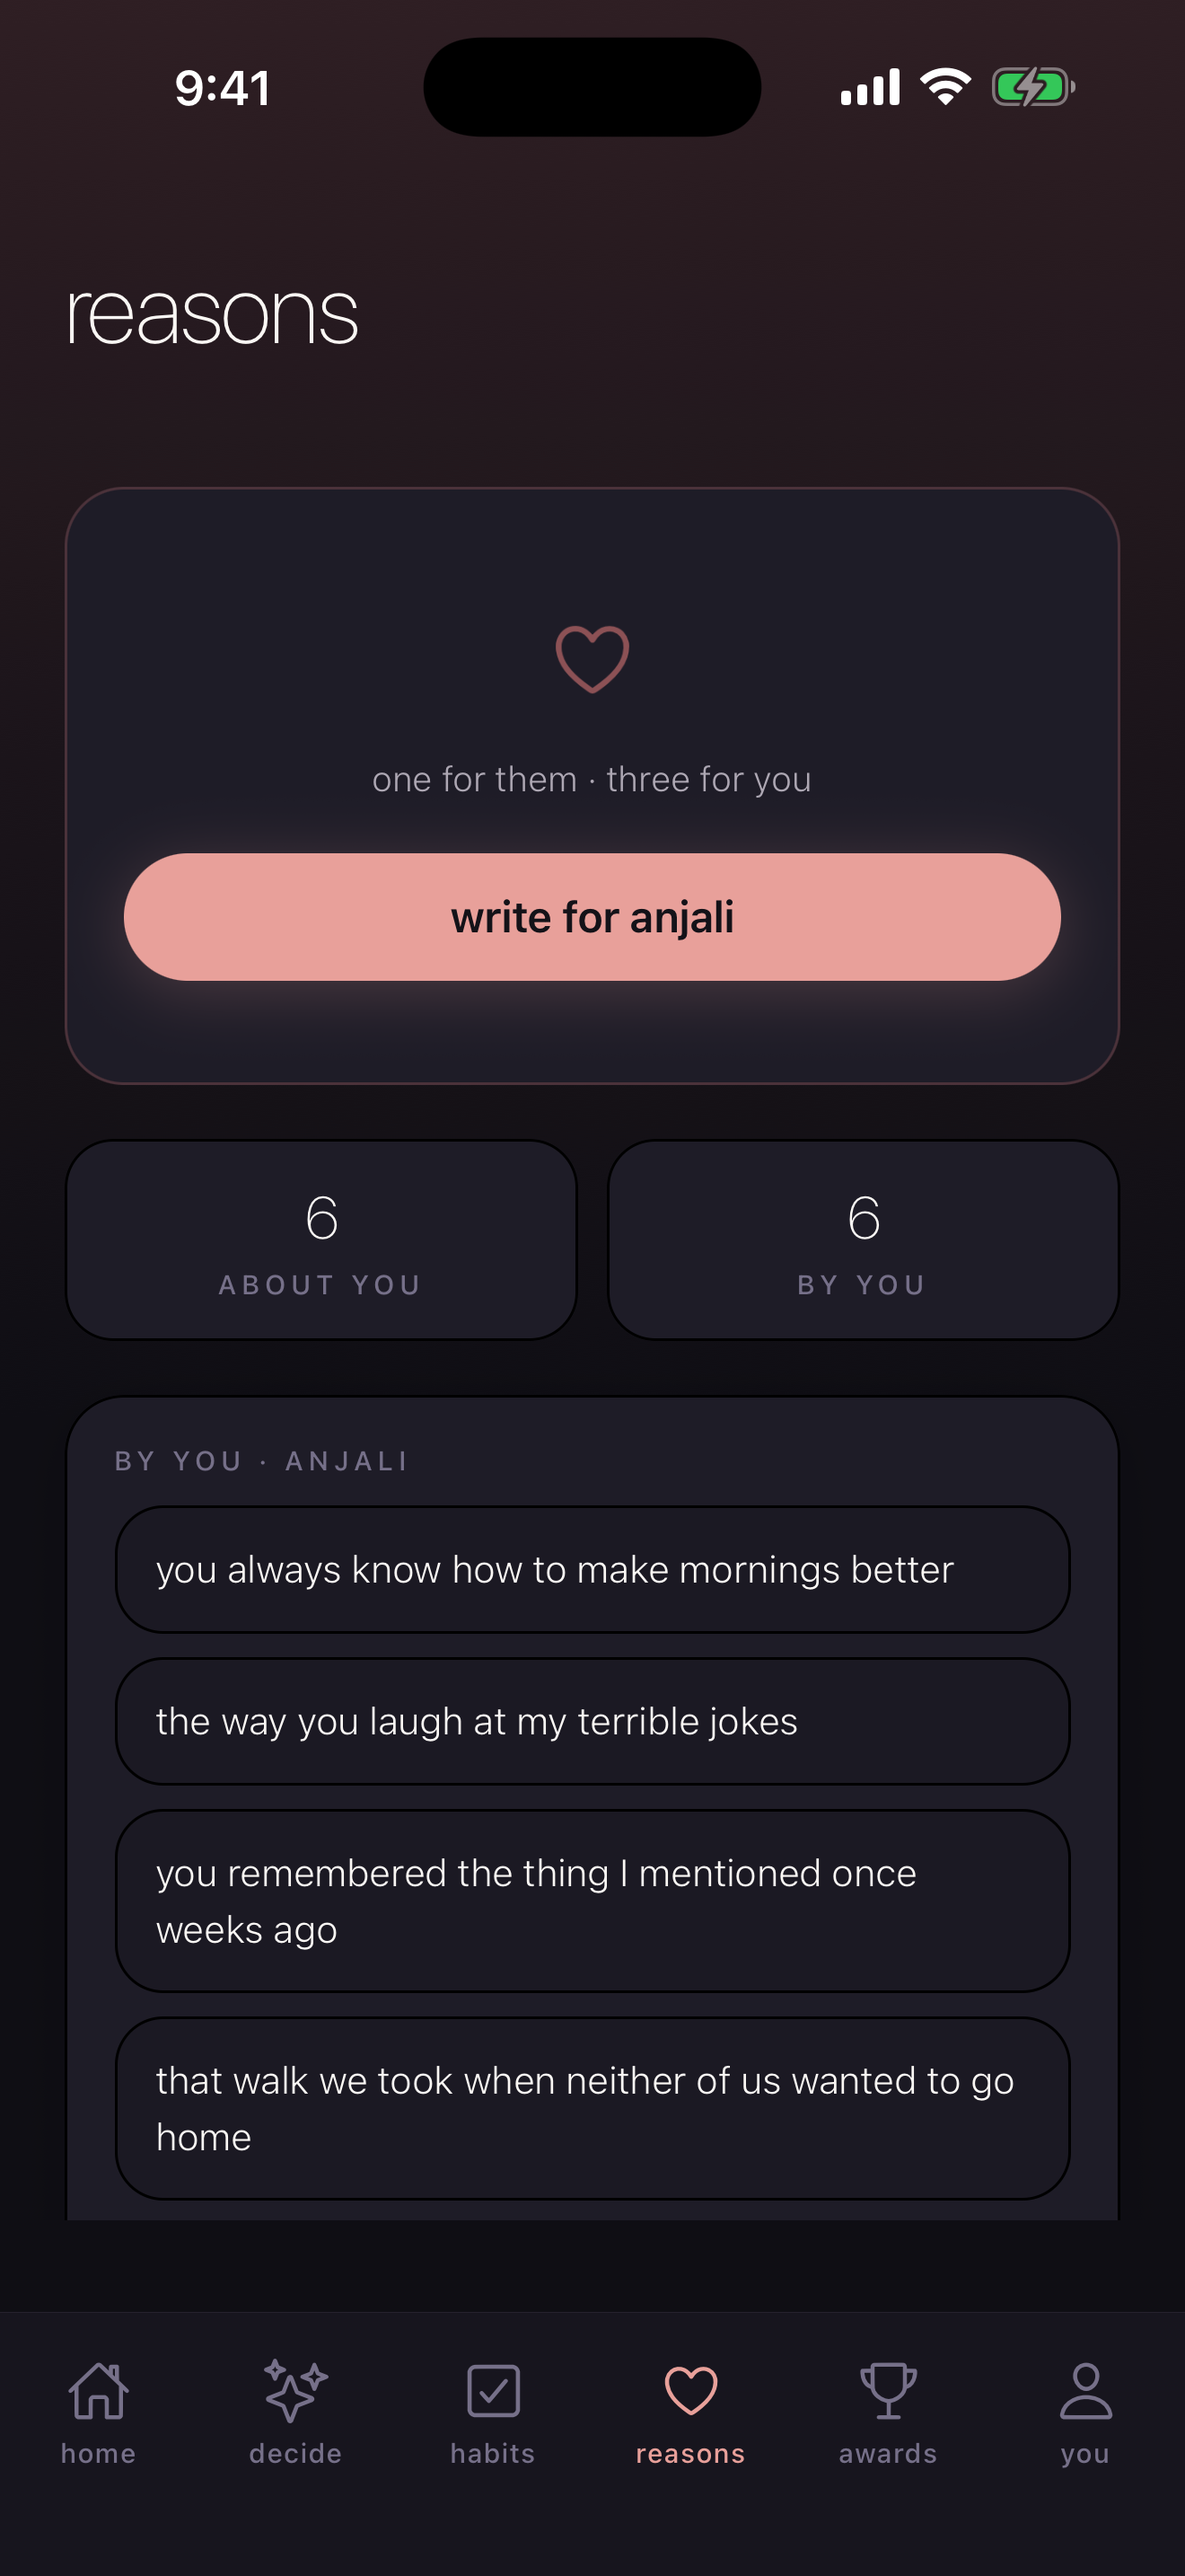
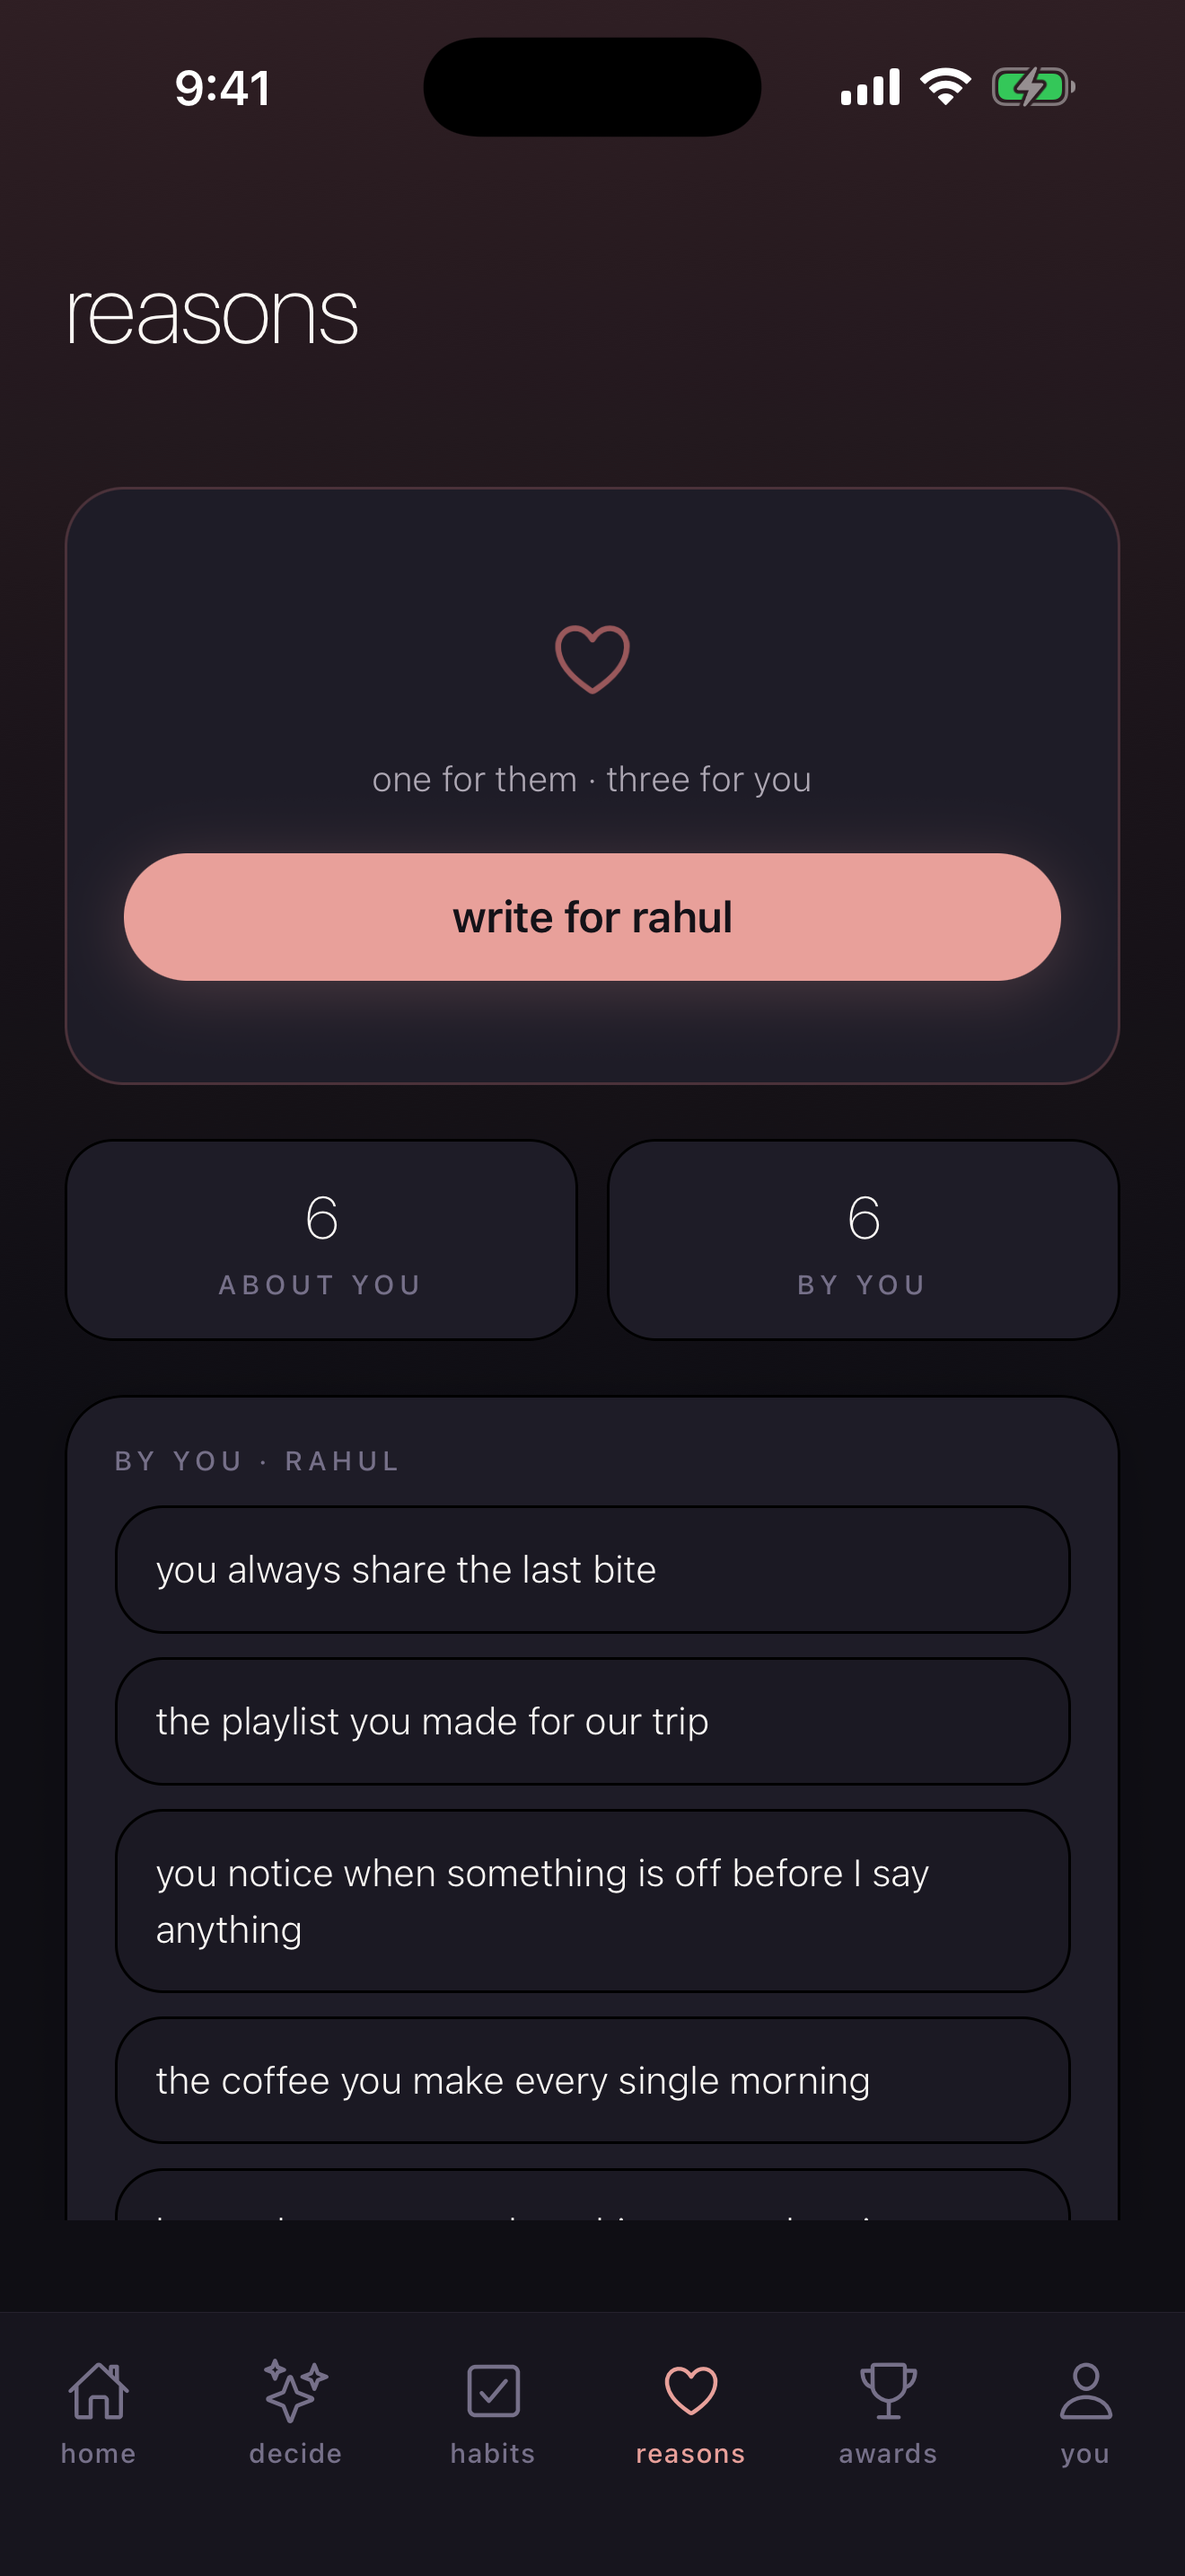
docs(store): Anjali screenshots + feminine UX polish
- Switch all screenshots to Anjali's account (woman's perspective,
  rahul shown online)
- Add Cormorant Garamond serif for headings — editorial feminine feel
- Reorder feature rail: reasons → mood → awards → habits → decide → you
  (emotional features lead)
- Warmer copy: "where the little things become everything",
  "say why you love them", "how are you, really?"
- Regenerate OG cover with Anjali's home screen
- Update demo account names in seed script (rahul/anjali)

diff --git a/docs/store/index.html b/docs/store/index.html
@@ -37,6 +37,9 @@
 
     <link rel="canonical" href="https://4m4n5.github.io/humm/store/" />
     <link rel="preload" as="image" href="images/marketing/01-home.png" fetchpriority="high" />
+    <link rel="preconnect" href="https://fonts.googleapis.com" />
+    <link rel="preconnect" href="https://fonts.gstatic.com" crossorigin />
+    <link href="https://fonts.googleapis.com/css2?family=Cormorant+Garamond:ital,wght@0,300;0,400;1,300&display=swap" rel="stylesheet" />
     <link rel="stylesheet" href="style.css" />
   </head>
 
@@ -63,7 +66,7 @@
           your relationship&rsquo;s<br />
           <span class="hero-accent">private corner</span>
         </h1>
-        <p class="hero-sub">a calm, intimate space for two.</p>
+        <p class="hero-sub">where the little things become everything.</p>
 
         <div class="hero-stage">
           <div class="phone phone--hero">
@@ -93,11 +96,28 @@
         <h2>small things, every day</h2>
 
         <div class="feature-rail" role="list">
+          <article class="feature feature--reasons" role="listitem">
+            <div class="phone">
+              <img
+                src="images/marketing/05-reasons.png"
+                alt="reasons — write one for them, reveal three from them"
+                width="1206"
+                height="2622"
+                loading="lazy"
+                decoding="async"
+              />
+            </div>
+            <div class="feature-meta">
+              <span class="feature-tag">reasons</span>
+              <h3>say why you love them.</h3>
+            </div>
+          </article>
+
           <article class="feature feature--mood" role="listitem">
             <div class="phone">
               <img
                 src="images/marketing/02-mood.png"
-                alt="mood — partner sync, seven-day strip, in-sync moments"
+                alt="mood — check in together, see the week side by side"
                 width="1206"
                 height="2622"
                 loading="lazy"
@@ -106,7 +126,24 @@
             </div>
             <div class="feature-meta">
               <span class="feature-tag">mood</span>
-              <h3>feel it, together.</h3>
+              <h3>how are you, really?</h3>
+            </div>
+          </article>
+
+          <article class="feature feature--awards" role="listitem">
+            <div class="phone">
+              <img
+                src="images/marketing/06-awards.png"
+                alt="awards — nominate each other, reveal the winners"
+                width="1206"
+                height="2622"
+                loading="lazy"
+                decoding="async"
+              />
+            </div>
+            <div class="feature-meta">
+              <span class="feature-tag">awards</span>
+              <h3>celebrate each other.</h3>
             </div>
           </article>
 
@@ -123,7 +160,7 @@
             </div>
             <div class="feature-meta">
               <span class="feature-tag">habits</span>
-              <h3>show up, side by side.</h3>
+              <h3>grow together, daily.</h3>
             </div>
           </article>
 
@@ -131,7 +168,7 @@
             <div class="phone">
               <img
                 src="images/marketing/03-decide.png"
-                alt="decide — vote together, or pick for us"
+                alt="decide — vote together, or let the app pick"
                 width="1206"
                 height="2622"
                 loading="lazy"
@@ -140,41 +177,7 @@
             </div>
             <div class="feature-meta">
               <span class="feature-tag">decide</span>
-              <h3>land on a choice. easily.</h3>
-            </div>
-          </article>
-
-          <article class="feature feature--awards" role="listitem">
-            <div class="phone">
-              <img
-                src="images/marketing/06-awards.png"
-                alt="awards — nominate, align, cheer"
-                width="1206"
-                height="2622"
-                loading="lazy"
-                decoding="async"
-              />
-            </div>
-            <div class="feature-meta">
-              <span class="feature-tag">awards</span>
-              <h3>celebrate the small stuff.</h3>
-            </div>
-          </article>
-
-          <article class="feature feature--reasons" role="listitem">
-            <div class="phone">
-              <img
-                src="images/marketing/05-reasons.png"
-                alt="reasons — write a line, reveal three"
-                width="1206"
-                height="2622"
-                loading="lazy"
-                decoding="async"
-              />
-            </div>
-            <div class="feature-meta">
-              <span class="feature-tag">reasons</span>
-              <h3>why you love them.</h3>
+              <h3>never &ldquo;I don&rsquo;t mind&rdquo; again.</h3>
             </div>
           </article>
 
@@ -182,7 +185,7 @@
             <div class="phone">
               <img
                 src="images/marketing/07-you.png"
-                alt="you — XP, badges, weekly challenges"
+                alt="you — your journey, your streaks, your growth"
                 width="1206"
                 height="2622"
                 loading="lazy"
@@ -191,7 +194,7 @@
             </div>
             <div class="feature-meta">
               <span class="feature-tag">you</span>
-              <h3>your gentle reflection.</h3>
+              <h3>a quiet place to reflect.</h3>
             </div>
           </article>
         </div>

diff --git a/docs/store/style.css b/docs/store/style.css
@@ -206,10 +206,11 @@ main {
 .hero h1 {
   margin: 0 auto;
   max-width: 18ch;
+  font-family: 'Cormorant Garamond', Georgia, 'Times New Roman', serif;
   font-size: var(--t-h1);
-  font-weight: 200;
-  line-height: 1.04;
-  letter-spacing: -0.03em;
+  font-weight: 300;
+  line-height: 1.06;
+  letter-spacing: -0.01em;
   color: var(--text);
 }
 
@@ -331,10 +332,11 @@ section h2 {
   margin: 0 auto;
   max-width: 22ch;
   text-align: center;
+  font-family: 'Cormorant Garamond', Georgia, 'Times New Roman', serif;
   font-size: var(--t-h2);
-  font-weight: 200;
-  letter-spacing: -0.025em;
-  line-height: 1.1;
+  font-weight: 300;
+  letter-spacing: -0.01em;
+  line-height: 1.12;
   color: var(--text);
 }
 
@@ -454,9 +456,11 @@ section h2 {
 
 .feature h3 {
   margin: 0;
-  font-size: 1.05rem;
-  font-weight: 400;
-  letter-spacing: -0.01em;
+  font-family: 'Cormorant Garamond', Georgia, 'Times New Roman', serif;
+  font-size: 1.15rem;
+  font-weight: 300;
+  font-style: italic;
+  letter-spacing: 0;
   color: var(--text);
   line-height: 1.3;
 }
@@ -501,10 +505,11 @@ section h2 {
 .promise-headline {
   margin: 0 auto;
   max-width: 18ch;
+  font-family: 'Cormorant Garamond', Georgia, 'Times New Roman', serif;
   font-size: clamp(2rem, 1.6rem + 2.5vw, 3rem);
-  font-weight: 200;
-  letter-spacing: -0.025em;
-  line-height: 1.05;
+  font-weight: 300;
+  letter-spacing: -0.01em;
+  line-height: 1.08;
   color: var(--text);
 }
 
